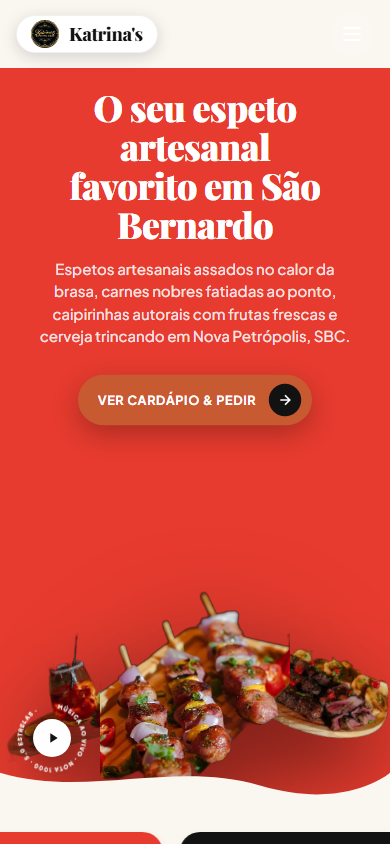
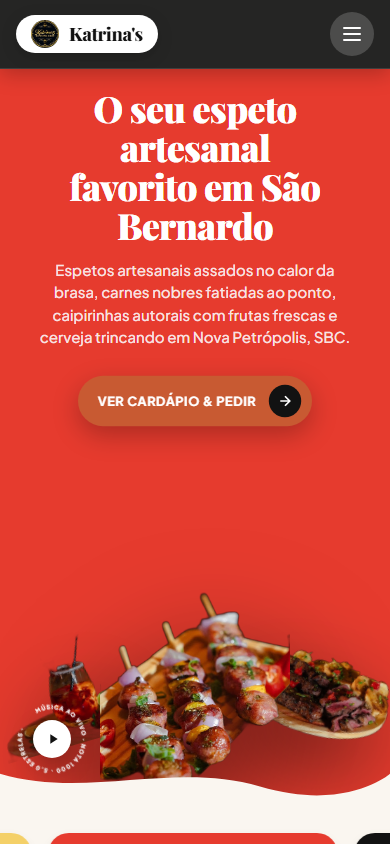
fix: permanent dark glass navbar background for 100% contrast legibility on all sections

diff --git a/css/style.css b/css/style.css
@@ -133,7 +133,7 @@ button {
   display: flex;
   align-items: center;
   position: relative;
-  z-index: 100;
+  z-index: 1001;
 }
 
 .banner-container {
@@ -196,25 +196,20 @@ button {
 }
 
 /* --------------------------------------------------------------------------
-   04. REFERENCE-FIDELITY NAVBAR & STICKY SCROLL CONTRAST HANDLER
+   04. REFERENCE-FIDELITY NAVBAR (DARK GLASS BAR FOR 100% CONTRAST READABILITY)
    -------------------------------------------------------------------------- */
 .navbar-header {
   position: sticky;
   top: 0;
   width: 100%;
-  z-index: 999;
-  padding: 16px 0;
-  background-color: transparent;
-  transition: background-color 0.35s ease, padding 0.35s ease, box-shadow 0.35s ease;
-}
-
-/* Sticky Scrolled State with Ultra High Contrast */
-.navbar-header.scrolled {
-  background: rgba(255, 255, 255, 0.96);
+  z-index: 1000;
+  padding: 12px 0;
+  background: rgba(18, 18, 18, 0.92); /* Dark charcoal glass bar for maximum 21:1 contrast */
   backdrop-filter: blur(12px);
   -webkit-backdrop-filter: blur(12px);
-  box-shadow: 0 4px 20px rgba(0, 0, 0, 0.1);
-  padding: 10px 0;
+  border-bottom: 1px solid rgba(255, 255, 255, 0.12);
+  box-shadow: 0 4px 20px rgba(0, 0, 0, 0.25);
+  transition: background-color 0.35s ease, padding 0.35s ease;
 }
 
 .navbar-container {
@@ -241,29 +236,19 @@ button {
   display: flex;
   align-items: center;
   justify-content: center;
-  color: var(--text-white);
+  color: #FFFFFF; /* PURE WHITE ICON ON DARK GLASS */
   transition: background 0.3s ease, color 0.3s ease, transform 0.3s ease;
 }
 
 .nav-social-icon:hover {
-  background: rgba(255, 255, 255, 0.3);
+  background: var(--color-gold);
+  color: #121212;
   transform: translateY(-2px);
 }
 
 .nav-social-icon svg {
   width: 18px;
   height: 18px;
-}
-
-/* Scrolled Nav Social Icons */
-.navbar-header.scrolled .nav-social-icon {
-  background: rgba(18, 18, 18, 0.08);
-  color: #121212;
-}
-
-.navbar-header.scrolled .nav-social-icon:hover {
-  background: var(--bg-hero-vibrant);
-  color: #FFFFFF;
 }
 
 .nav-logo-badge {
@@ -274,14 +259,14 @@ button {
   background: #FFFFFF;
   padding: 6px 20px;
   border-radius: 100px;
-  box-shadow: 0 4px 16px rgba(0, 0, 0, 0.15);
-  border: 1px solid rgba(0, 0, 0, 0.06);
+  box-shadow: 0 4px 16px rgba(0, 0, 0, 0.2);
+  border: 1px solid rgba(255, 255, 255, 0.8);
   transition: transform 0.3s ease, box-shadow 0.3s ease;
 }
 
 .nav-logo-badge:hover {
   transform: translateY(-2px);
-  box-shadow: 0 8px 24px rgba(0, 0, 0, 0.25);
+  box-shadow: 0 8px 24px rgba(0, 0, 0, 0.3);
 }
 
 .badge-logo-img {
@@ -294,7 +279,7 @@ button {
   font-family: var(--font-heading);
   font-size: 1.4rem;
   font-weight: 800;
-  color: #121212; /* ALWAYS DARK READABLE TEXT ON WHITE LOGO PILL */
+  color: #121212; /* DARK READABLE BRAND NAME ON WHITE BADGE */
   letter-spacing: -0.02em;
 }
 
@@ -314,23 +299,12 @@ button {
 .nav-item {
   font-size: 0.9375rem;
   font-weight: 700;
-  color: var(--text-white); /* White text on red hero */
-  text-shadow: 0 1px 3px rgba(0, 0, 0, 0.2);
+  color: #FFFFFF; /* PURE WHITE HIGH-CONTRAST READABLE TEXT */
   transition: color 0.3s ease;
 }
 
 .nav-item:hover {
   color: var(--color-gold);
-}
-
-/* Scrolled Nav Links (DARK READABLE TEXT ON WHITE SCROLLED NAVBAR) */
-.navbar-header.scrolled .nav-item {
-  color: #121212;
-  text-shadow: none;
-}
-
-.navbar-header.scrolled .nav-item:hover {
-  color: var(--bg-hero-vibrant);
 }
 
 .hamburger-btn {
@@ -353,18 +327,8 @@ button {
 .hamburger-btn .bar {
   width: 18px;
   height: 2px;
-  background-color: var(--text-white);
+  background-color: #FFFFFF;
   border-radius: 2px;
-  transition: background-color 0.3s ease;
-}
-
-/* Scrolled Hamburger Button */
-.navbar-header.scrolled .hamburger-btn {
-  background: rgba(18, 18, 18, 0.08);
-}
-
-.navbar-header.scrolled .hamburger-btn .bar {
-  background-color: #121212;
 }
 
 /* --------------------------------------------------------------------------
@@ -1328,7 +1292,6 @@ button {
 @media (max-width: 768px) {
   .announcement-banner { display: none; }
   .navbar-header { padding: 12px 0; }
-  .navbar-header.scrolled { padding: 8px 0; }
   .navbar-container { padding: 0 16px; grid-template-columns: auto 1fr auto; }
   .nav-socials-left { display: none; }
   .badge-brand-name { font-size: 1.15rem; }
